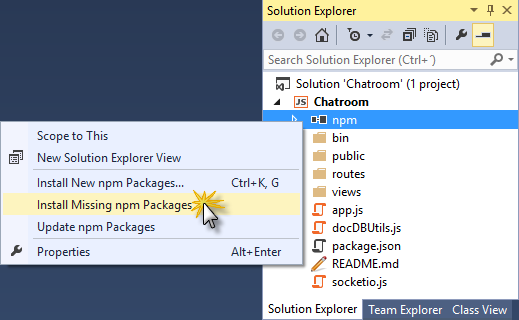
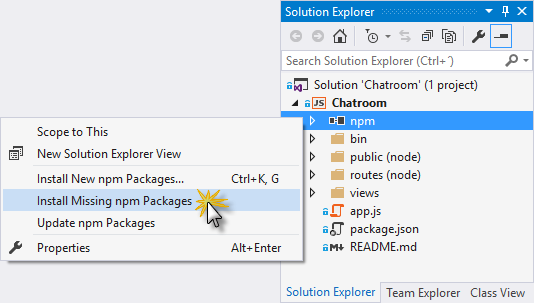
Updated CreatingTheUI document and screenshots

diff --git a/Presentation/CreatingTheUI/CreatingTheUI/Demo.md b/Presentation/CreatingTheUI/CreatingTheUI/Demo.md
@@ -24,23 +24,23 @@ In this demo, you will see how to:
 - [Jade][2]
 - [Bootstrap][3]
 - [Node.js Tools for Visual Studio][4]
-- [Visual Studio Community 2013][5]
+- [Visual Studio Community 2015][5]
 
 [1]: https://nodejs.org/
 [2]: http://jade-lang.com/
 [3]: http://getbootstrap.com/
-[4]: https://www.visualstudio.com/en-us/features/node-js-vs.aspx
-[5]: https://www.visualstudio.com/en-us/features/node-js-vs.aspx
+[4]: https://www.visualstudio.com/features/node-js-vs
+[5]: https://www.visualstudio.com/products/visual-studio-community-vs
 
 <a name="Setup" />
 ### Setup and Configuration ###
 Follow these steps to set up your environment for the demo:
 
-1. Install [Visual Studio Community 2013](https://go.microsoft.com/fwlink/?LinkId=517284)
+1. Install [Visual Studio Community 2015](https://go.microsoft.com/fwlink/?LinkId=691978).
 
-1. Install [Node.js](https://nodejs.org/download/)
+1. Install [Node.js](https://nodejs.org/en/download/).
 
-1. Install [Node.js Tools for Visual Studio](http://aka.ms/getntvs)
+1. Install [Node.js Tools for Visual Studio](http://aka.ms/getntvs).
 
 1. Open Visual Studio.
 
@@ -51,6 +51,12 @@ Follow these steps to set up your environment for the demo:
 	![Installing Missing npm Packages](images/installing-missing-npm-packages.png?raw=true "Installing Missing npm Packages")
 
 	_Installing Missing npm Packages_
+
+	> **Note:** If the **Path Too Long Warning** dialog box appears, click on the **Do nothing, but warn me next time it happens** option.
+
+	> ![Path Too Long Warning](images/path-too-long-warning-dialog-box.png?raw=true "Path Too Long Warning")
+
+	> _Installing Missing npm Packages_
 
 > **Note:** This demo is accompanied by a starting solution located in the **Begin** folder that allows you to follow the demo. Inside the source code you will also find an **End** folder containing a Visual Studio solution with the code that results from completing the steps in the demo. You can use these solutions as guidance if you need additional help as you work through this demo.
 
@@ -83,6 +89,12 @@ This demo is composed of the following segments:
 	meta(http-equiv="X-UA-Compatible" content="IE=edge")
 	link(rel='stylesheet' href='/stylesheets/bootstrap.min.css')
 	link(rel='stylesheet' href='/stylesheets/bootstrap-theme.min.css')
+	````
+
+1. Add the following code at the end of the file inside the body block.
+
+	````HTML
+    script(type='text/javascript' src='/javascripts/bootstrap.min.js')
 	````
 
 1. Then, add the following line at the end to create a new block.
@@ -119,6 +131,13 @@ This demo is composed of the following segments:
 	        input(type="text" id="message-box" class="form-control input-lg" placeholder="Write a message here..." rows="3")
 	      .col-xs-4.col-sm-3
 	        button#send-message-btn.btn.btn-primary.btn-lg.btn-block Send Message
+	````
+
+1. Now, add the following code at the end of the file without indentation (i.e.: at the same level of the _content_ block).
+
+	````HTML
+	block body_end
+	  script(type='text/javascript' src='/javascripts/index.js')
 	````
 
 1. Open the **style.styl** file located in **public/stylesheets/**.
